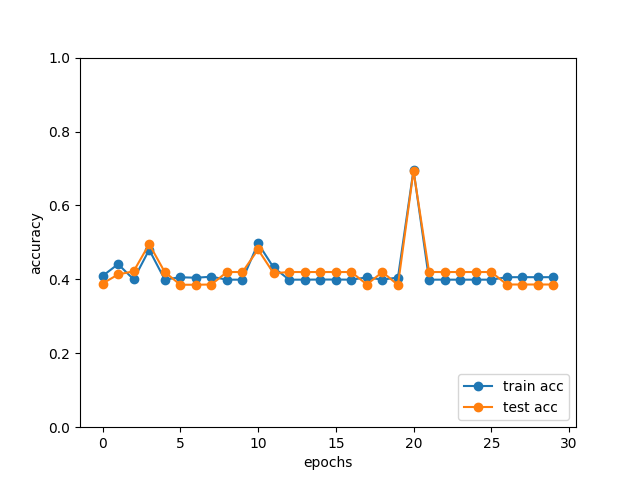
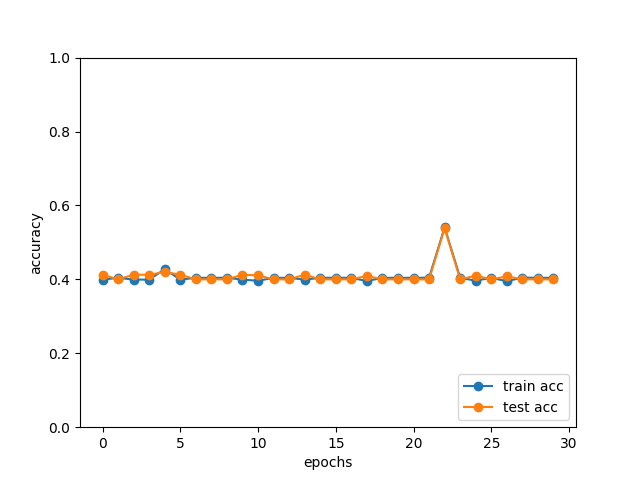
faiked net cange

Changed region(s): [[0.1562, 0.3438, 0.875, 0.625]]

diff --git a/Nakka0925/non_minibatch.py b/Nakka0925/non_minibatch.py
@@ -38,6 +38,7 @@ epoch = 30
 
 learning_rate = 0.01
 
+test_loss_list = []
 train_loss_list = []
 train_acc_list = []
 test_acc_list = []
@@ -52,23 +53,26 @@ for i in range(epoch):
     #grad = network.numerical_gradient(x_batch, t_batch)
     grad = network.gradient(x_train, t_train)
     
-    """
-     更新
-    #for key in ('W1', 'b1', 'W2', 'b2'):
+    
+    #更新
+    for key in ('W1', 'b1', 'W2', 'b2'):
         network.params[key] -= learning_rate * grad[key]
-    """
+    
 
-    test = Adam()
+    #test = Adam()
 
-    network.params = test.update(network.params, grad)
+    #network.params = test.update(network.params, grad)
 
     #if i % train_size == 0:
     train_acc = network.accuracy(x_train, t_train)
     test_acc = network.accuracy(x_test, t_test)
-    loss = network.loss(x_train, t_train)
-    train_loss_list.append(loss)
+    train_loss = network.loss(x_train, t_train)
+    test_loss = network.loss(x_test, t_test)
+    
     train_acc_list.append(train_acc)
     test_acc_list.append(test_acc)
+    train_loss_list.append(train_loss)
+    test_loss_list.append(test_loss)
     print("train_accuracy:", train_acc, "test_accuracy:", test_acc)
     end = time.time()
     print("epoch" + str(int(i+1)), str(end - start) + 's')
@@ -84,13 +88,14 @@ plt.xlabel("epochs")
 plt.ylabel("accuracy")
 plt.ylim(0, 1.0)
 plt.legend(loc='lower right')
-plt.savefig("accuracy_flat.png")
+plt.savefig("accuracy_nonbatch.png")
 
 plt.clf()
 
-# 損失関数グラフ描画
-x = np.arange(len(train_loss_list))
-plt.plot(x, train_loss_list, label='train loss')
+x = np.arange(len(train_acc_list))
+plt.plot(x, train_loss_list, marker="o",label='train loss')
+plt.plot(x, test_loss_list, marker="o", label='test loss',)
 plt.xlabel("epochs")
 plt.ylabel("loss")
-plt.savefig("loss_flat.png")
+plt.legend(loc='upper right')
+plt.savefig("loss_nonbatch.png")

diff --git a/Nakka0925/minibatch.py b/Nakka0925/minibatch.py
@@ -36,12 +36,13 @@ batch_size = 100
 learning_rate = 0.01
 
 train_loss_list = []
+test_loss_list = []
 train_acc_list = []
 test_acc_list = []
 
 iter_per_epoch = int(max(train_size / batch_size, 1))
 
-epoch = 20
+epoch = 30
 
 iters_num = epoch * iter_per_epoch
 
@@ -55,7 +56,7 @@ for i in range(1, iters_num+1):
     grad = network.gradient(x_batch, t_batch)
     
     # 更新
-    for key in ('W1', 'b1', 'W2', 'b2', 'W3', 'b3'):
+    for key in ('W1', 'b1', 'W2', 'b2'):
         network.params[key] -= learning_rate * grad[key]
     
     """
@@ -67,12 +68,15 @@ for i in range(1, iters_num+1):
     if i % iter_per_epoch == 0:
         train_acc = network.accuracy(x_train, t_train)
         test_acc = network.accuracy(x_test, t_test)
-        loss = network.loss(x_batch, t_batch)
+        train_loss = network.loss(x_train, t_train)
+        test_loss = network.loss(x_test, t_test)
+
         train_acc_list.append(train_acc)
         test_acc_list.append(test_acc)
-        train_loss_list.append(loss)
+        train_loss_list.append(train_loss)
+        test_loss_list.append(test_loss)
+        
         print("train_accuracy:", train_acc, "test_accuracy:", test_acc)
-        print("loss", loss)
 
 
 # グラフの描画
@@ -90,7 +94,9 @@ plt.clf()
 
 # 損失関数グラフ描画
 x = np.arange(len(train_acc_list))
-plt.plot(x, train_loss_list, label='train loss')
+plt.plot(x, train_loss_list, marker="o",label='train loss')
+plt.plot(x, test_loss_list, marker="o", label='test loss',)
 plt.xlabel("epochs")
 plt.ylabel("loss")
+plt.legend(loc='upper right')
 plt.savefig("loss_batch.png")

diff --git a/Nakka0925/two_layer_net.py b/Nakka0925/two_layer_net.py
@@ -14,17 +14,14 @@ class TwoLayerNet:
         self.params = {}
         self.params['W1'] = weight_init_std * np.random.randn(input_size, hidden_size)
         self.params['b1'] = np.zeros(hidden_size)
-        self.params['W2'] = weight_init_std * np.random.randn(hidden_size, hidden_size)
-        self.params['b2'] = np.zeros(hidden_size)
-        self.params['W3'] = weight_init_std * np.random.randn(hidden_size, output_size)
-        self.params['b3'] = np.zeros(output_size)
+        self.params['W2'] = weight_init_std * np.random.randn(hidden_size, output_size)
+        self.params['b2'] = np.zeros(output_size)
         # レイヤの生成
         self.layers = OrderedDict()
         self.layers['Affine1'] = Affine(self.params['W1'], self.params['b1'])
         self.layers['Relu1'] = Relu()
         self.layers['Affine2'] = Affine(self.params['W2'], self.params['b2'])
-        self.layers['Relu2'] = Relu()
-        self.layers['Affine3'] = Affine(self.params['W3'], self.params['b3'])
+        
         self.lastLayer = SoftmaxWithLoss()
         
     def predict(self, x):
@@ -74,6 +71,6 @@ class TwoLayerNet:
         grads = {}
         grads['W1'], grads['b1'] = self.layers['Affine1'].dW, self.layers['Affine1'].db
         grads['W2'], grads['b2'] = self.layers['Affine2'].dW, self.layers['Affine2'].db
-        grads['W3'], grads['b3'] = self.layers['Affine3'].dW, self.layers['Affine3'].db
+
 
         return grads
